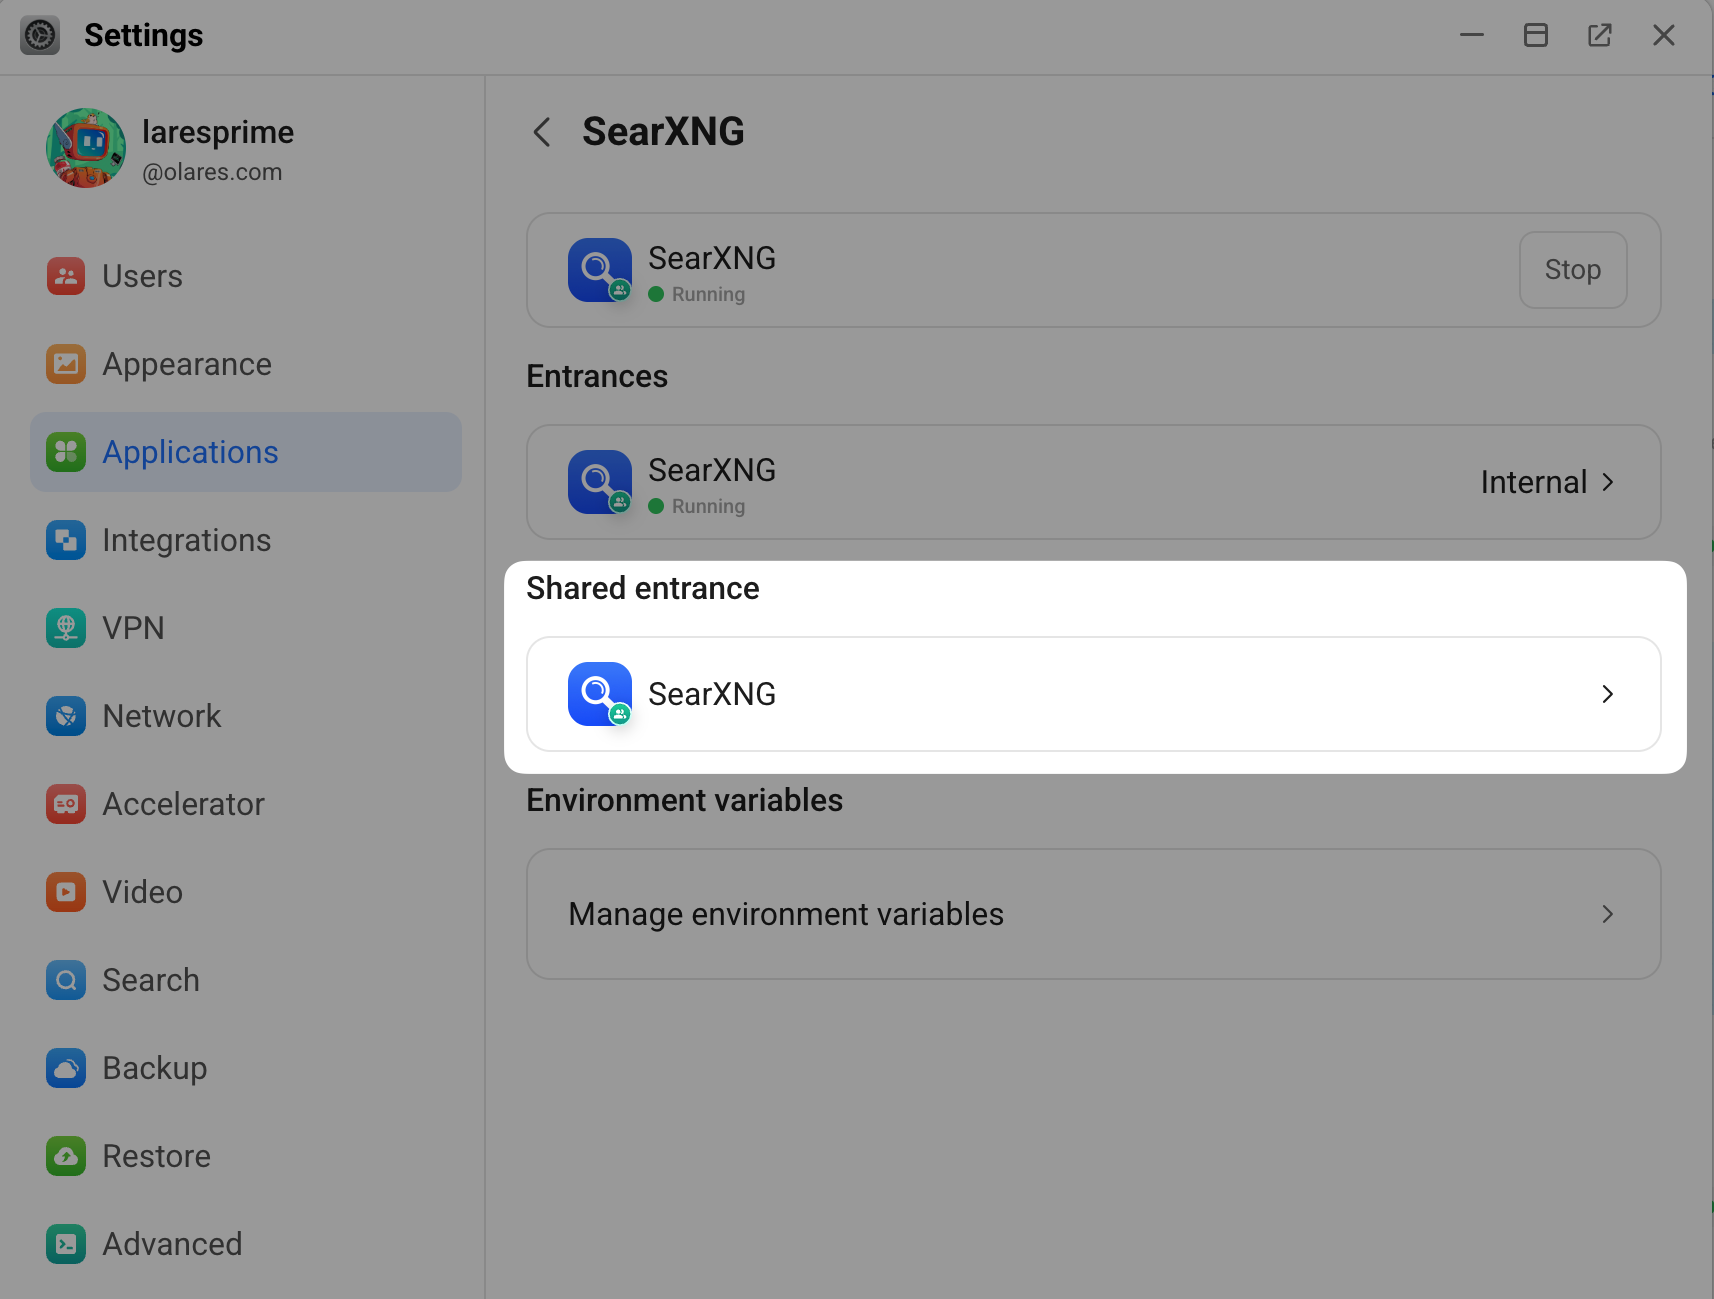
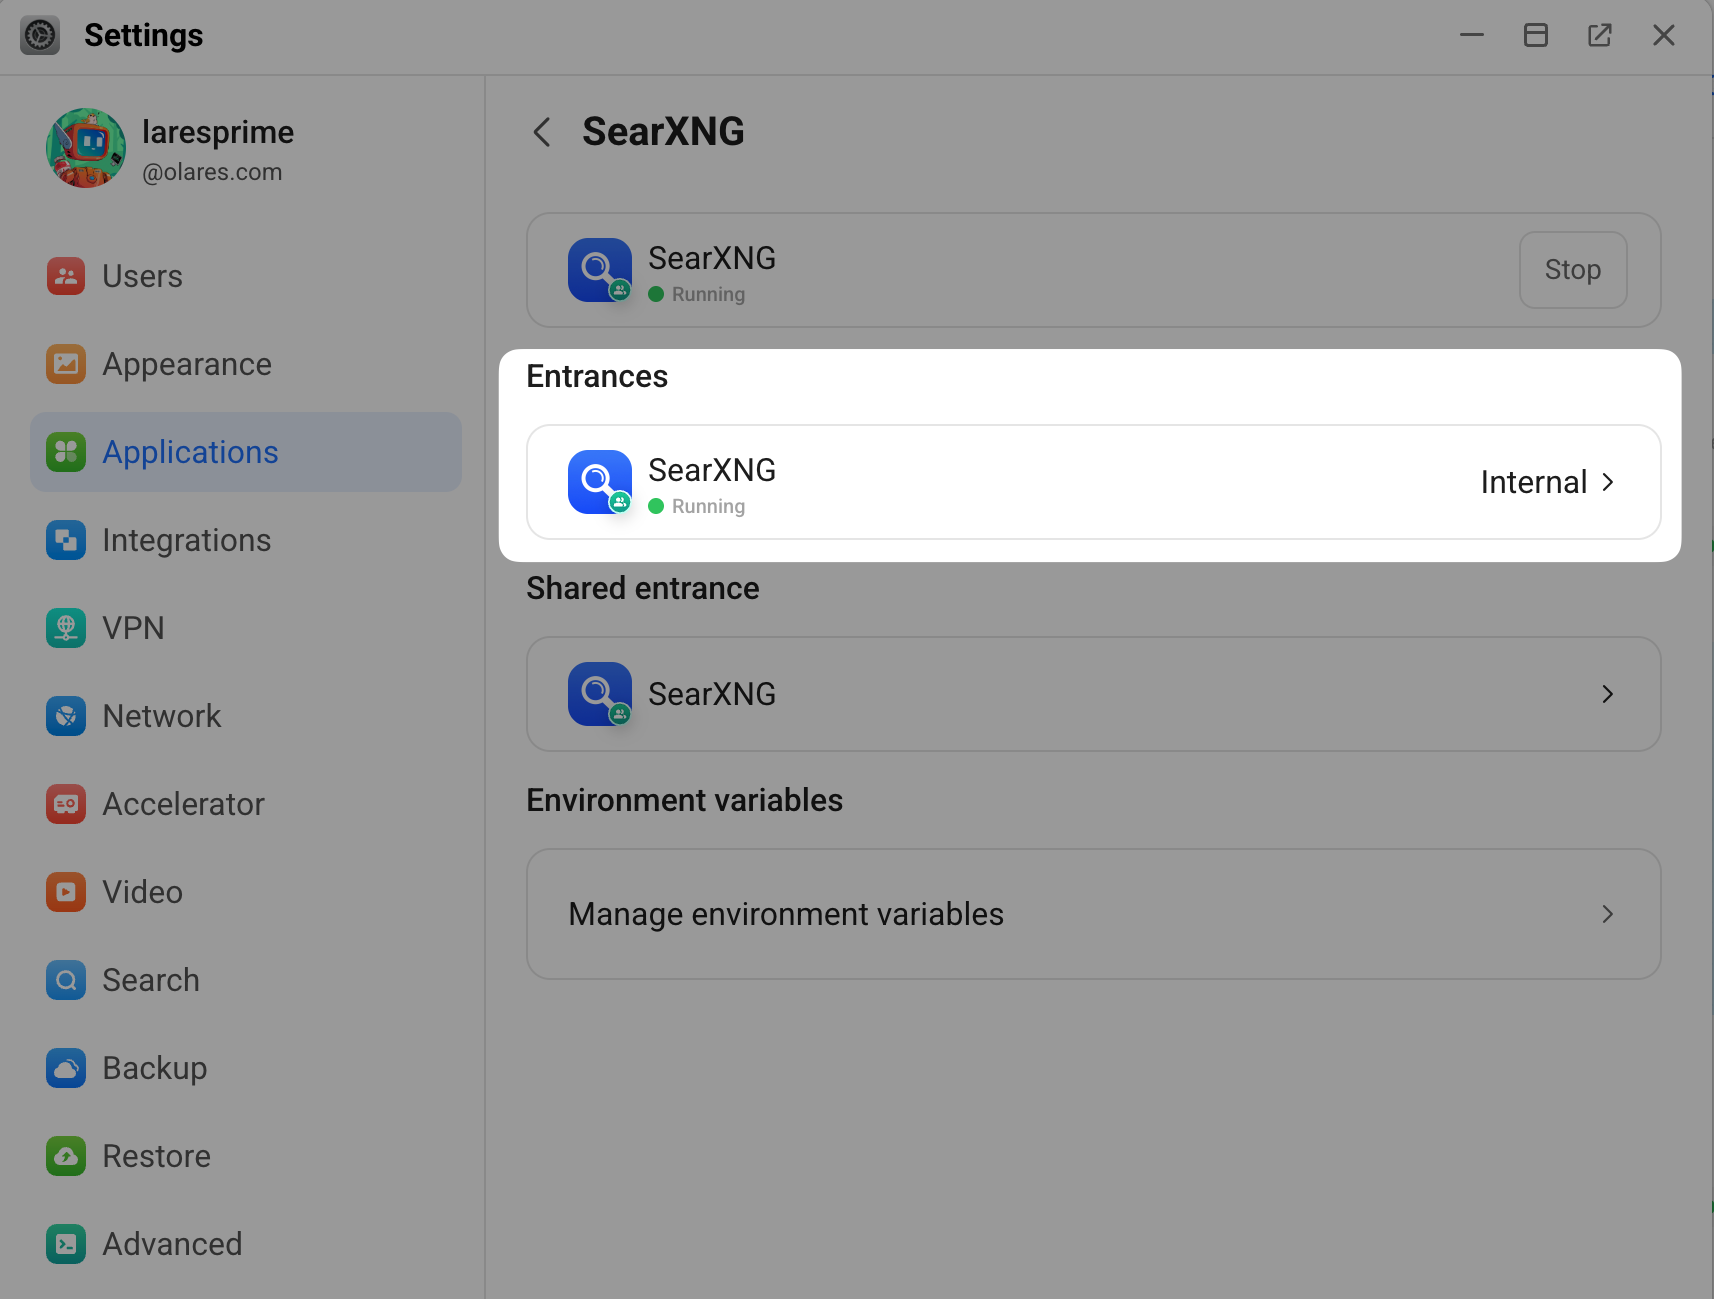
finish web search updates

Changed region(s): [[0.2783, 0.2463, 0.9895, 0.6159]]

diff --git a/docs/use-cases/openwebui-search.md b/docs/use-cases/openwebui-search.md
@@ -12,7 +12,7 @@ doc_updated: "2026-07-30"
 
 # Enable web search in Open WebUI
 
-Add web search capabilities to Open WebUI to allow your local AI models to retrieve up-to-date information from the internet. This integration requires an active embedding model to process documents and SearXNG to fetch web results.
+Add web search capabilities to Open WebUI to allow your local AI models to retrieve up-to-date information from the internet. This integration requires a connected embedding model to generate embeddings and SearXNG to fetch web results.
 
 If you want Open WebUI to read full web page content instead of using search result summaries only, configure a web loader such as Firecrawl.
 
@@ -28,11 +28,10 @@ In this guide, you will learn how to:
 
 Before you begin, ensure you have the following in place:
 
-- [Open WebUI](openwebui.md) installed and configured with at least one active model backend.
+- [Open WebUI](openwebui.md) installed and configured with at least one connected local model.
 - SearXNG installed.
 - Administrator privileges for the Open WebUI instance.
 - The following model:
-
    | Model type | Model | How to get it |
    | :--- | :--- | :--- |
    | Embedding | EmbeddingGemma | Install from Market |
@@ -48,7 +47,7 @@ To link Open WebUI with your background services, you need to locate the connect
 ### Get SearXNG endpoint
 
 1. Open Olares Settings, and then go to **Applications** > **SearXNG**.
-2. Under **Shared entrances**, click **SearXNG**, and then copy the endpoint URL. For example, `http://d1236e020.shared.olares.com`.
+2. Under **Entrances**, click **SearXNG**, and then copy the endpoint URL. For example, `https://84a93c3c.laresprime.olares.com`.
 
    ![SearXNG shared endpoint](/images/manual/use-cases/openwebui-searxng-shared-endpoint1.png#bordered){width=70%}
 
@@ -58,8 +57,11 @@ Apply the details you retrieved to the Open WebUI configuration panel.
 
 ### Set up document embeddings
 <!--Note this section is reused in openwebui-knowledge, from line 61 to 69-->
+
+Configure the embedding model so Open WebUI can convert text into vector representations for retrieval.
+
 1. In Open WebUI, select your profile icon, and then go to **Admin Panel** > **Settings**.
-2. On the left navigation, locate the **Tools** section, and then select **Documents**.
+2. On the left sidebar, locate the **Tools** section, and then select **Documents**.
 3. Under the **Embedding** section, specify the following settings:
 
    - **Embedding Model Engine**: Select **OpenAI**.
@@ -71,22 +73,24 @@ Apply the details you retrieved to the Open WebUI configuration panel.
 
 ### Enable web search
 
+Turn on web search and point it to your SearXNG endpoint.
+
 1. Go to **Admin Panel** > **Settings**.
-2. On the left navigation, locate the **Tools**, and then select **Web Search**.
+2. On the left sidebar, locate the **Tools** section, and then select **Web Search**.
 3. Specify the following settings:
 
    - **Web Search**: Enable this setting.
    - **Web Search Engine**: Select **SearXNG**.
    - **Searxng Query URL**: Enter your SearXNG endpoint URL and append `/search?q=<query>` to the end.
 
-      For example, `http://3e40f0dd0.shared.olares.com/search?q=<query>`.
+      For example, `https://84a93c3c.laresprime.olares.com/search?q=<query>`.
    - **Bypass Web Loader**: Enable this setting if you only need search result summaries. Leave it disabled if you want Open WebUI to fetch full page content through a web loader.
 
       :::tip Full-text retrieval
       For full-page retrieval, install Firecrawl and configure it as the web loader. See [Use Firecrawl as a web page loader](firecrawl.md#configure-open-webui).
       :::
 
-   ![SearXNG configurations in Open WebUI](/images/manual/use-cases/openwebui-searxng-config.png#bordered)
+   ![SearXNG configurations in Open WebUI](/images/manual/use-cases/openwebui-searxng-config1.png#bordered)
 
 4. Leave the other fields at their default values.
 5. Select **Save**.
@@ -97,9 +101,9 @@ Test the feature to ensure the AI successfully retrieves up-to-date information 
 
 1. Start a new chat.
 2. Select the model.
-3. Click the **Integrations** icon under the message input field, and then enable **Web Search**.
+3. Click the **Integrations** icon under the chat input field, and then enable **Web Search**.
 
-   ![Web search enable in Open WebUI chat](/images/manual/use-cases/openwebui-web-search-enable.png#bordered)
+   ![Web search enable in Open WebUI chat](/images/manual/use-cases/openwebui-web-search-enable1.png#bordered)
 
 4. Enter a prompt that requires recent information. For example:
 
@@ -108,4 +112,4 @@ Test the feature to ensure the AI successfully retrieves up-to-date information 
    ```
 5. Submit the prompt. The AI generates a response that includes the retrieved search results and their source links.
 
-   ![Web search results in Open WebUI](/images/manual/use-cases/openwebui-web-search-results.png#bordered)
+   ![Web search results in Open WebUI](/images/manual/use-cases/openwebui-web-search-results1.png#bordered)
